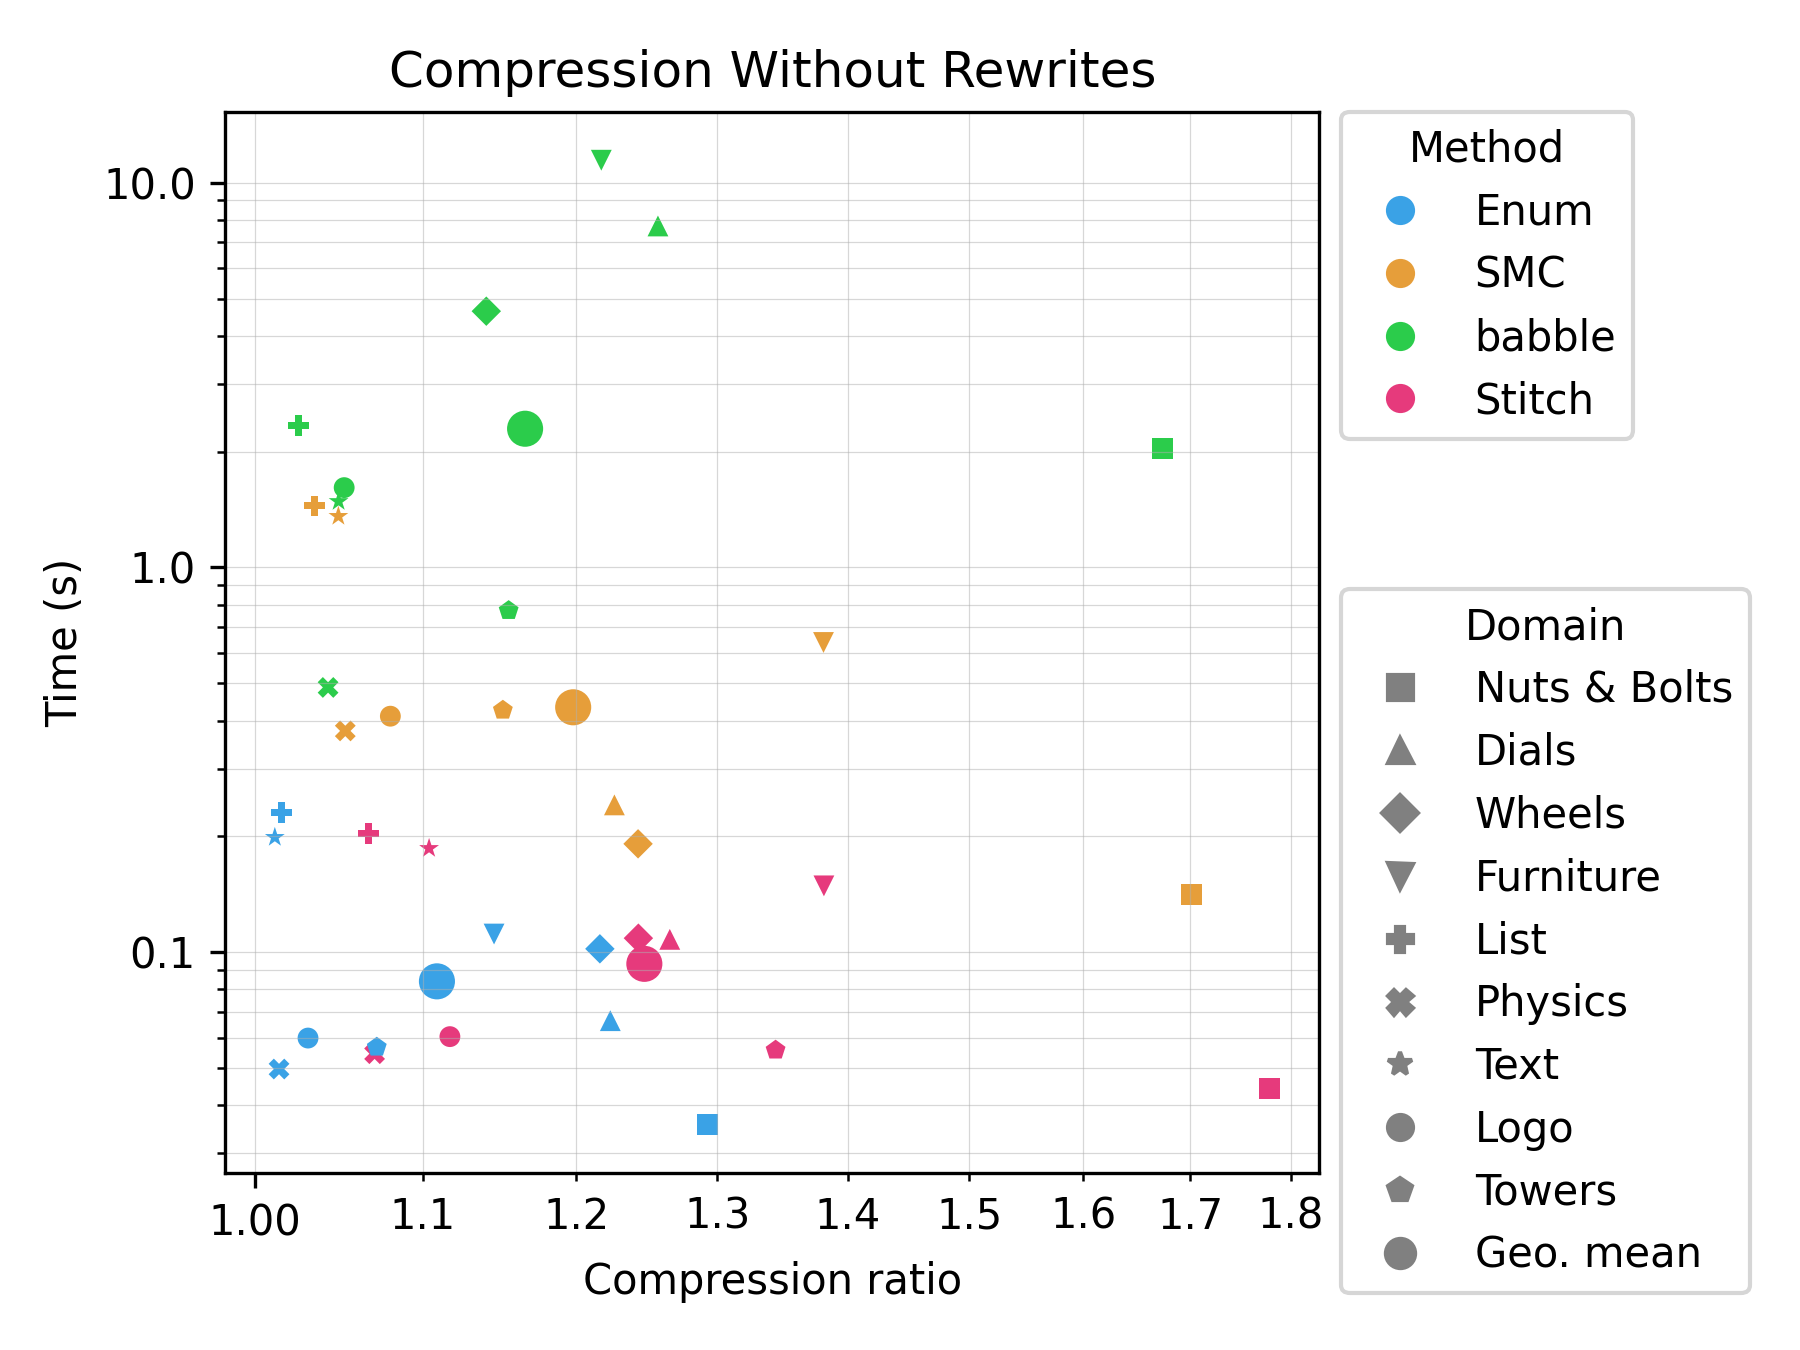
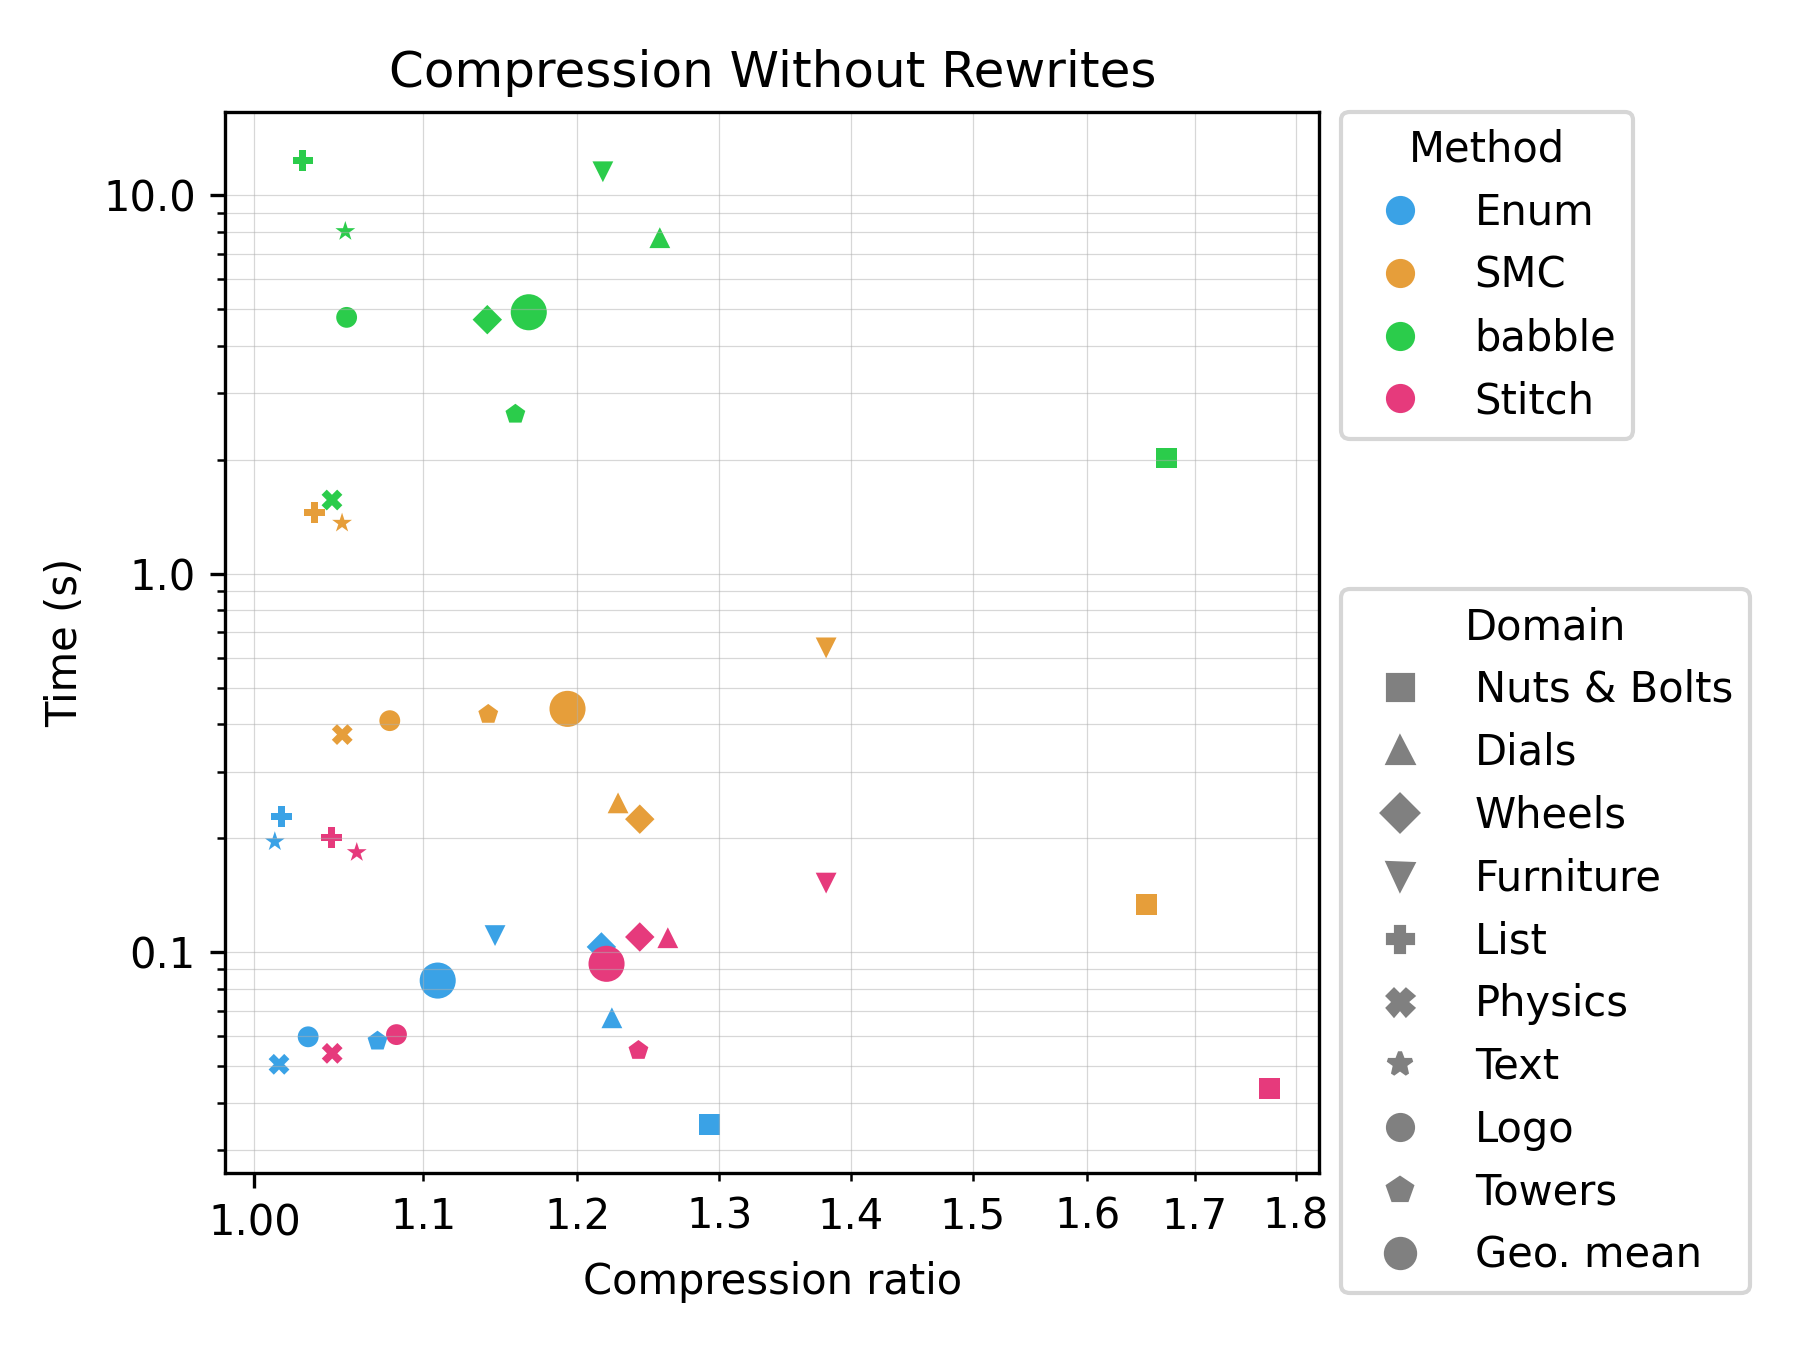
run

diff --git a/figures/table4.tex b/figures/table4.tex
@@ -1,4 +1,4 @@
-% source: /home/kavi/mit/egg-stitch/viz/results/table4/2026-05-09_17-39-10/table4.json
+% source: /home/kavi/mit/egg-stitch/viz/results/table4/2026-05-09_21-00-47/table4.json
 % Compression Without Rewrites, Stacked Abstractions: generated from results JSON
 \begin{tabular}{l r  rrrr rrrr}
 \toprule
@@ -6,16 +6,16 @@
 \cmidrule(lr){2-2} \cmidrule(lr){3-6} \cmidrule(lr){7-10}
 Domain & Original & Enum & SMC & babble & Stitch & Enum & SMC & babble & Stitch \\
 \midrule
-Nuts \& Bolts & 19009 & 1.61 & 14.90 & 9.11 & \textbf{16.99} & 0.707 & 1.997 & 10.431 & \textbf{0.098} \\
-Dials & 35713 & 5.17 & 6.42 & 5.25 & \textbf{8.87} & 0.705 & 5.820 & 41.670 & \textbf{0.446} \\
-Wheels & 35427 & 1.53 & \textbf{7.01} & 5.47 & 6.61 & 0.612 & 9.294 & 44.615 & \textbf{0.413} \\
-Furniture & 42936 & 3.38 & 6.46 & 4.26 & \textbf{7.00} & 2.004 & 11.129 & 71.215 & \textbf{0.581} \\
-List & 35680 & 1.05 & 1.30 & 1.07 & \textbf{1.37} & \textbf{0.759} & 17.596 & 21.347 & 1.246 \\
-Physics & 9405 & 1.08 & 1.66 & 1.39 & \textbf{2.08} & \textbf{0.135} & 3.930 & 2.856 & 0.277 \\
-Text & 30002 & 1.05 & 1.56 & 1.21 & \textbf{1.94} & \textbf{0.503} & 14.456 & 12.795 & 0.784 \\
-Logo & 11228 & 1.14 & 2.08 & 1.33 & \textbf{2.11} & \textbf{0.221} & 5.487 & 11.528 & 0.318 \\
-Towers & 9556 & 1.40 & 2.36 & 1.36 & \textbf{2.57} & 0.338 & 4.864 & 3.911 & \textbf{0.218} \\
+Nuts \& Bolts & 19008 & 1.59 & 13.44 & 9.20 & \textbf{14.86} & 0.708 & 1.879 & 10.507 & \textbf{0.098} \\
+Dials & 35712 & 4.88 & 5.99 & 5.27 & \textbf{7.94} & 0.717 & 5.990 & 42.021 & \textbf{0.453} \\
+Wheels & 35426 & 1.53 & \textbf{6.58} & 5.49 & 6.17 & 0.613 & 9.116 & 44.635 & \textbf{0.416} \\
+Furniture & 42935 & 3.29 & 6.24 & 4.26 & \textbf{6.64} & 2.022 & 11.128 & 71.065 & \textbf{0.593} \\
+List & 35621 & 1.02 & 1.12 & 1.09 & \textbf{1.14} & \textbf{0.764} & 17.945 & 154.778 & 1.247 \\
+Physics & 9387 & 1.04 & 1.26 & \textbf{1.43} & 1.37 & \textbf{0.132} & 3.873 & 13.189 & 0.278 \\
+Text & 29936 & 1.02 & 1.23 & 1.24 & \textbf{1.34} & \textbf{0.500} & 14.377 & 86.230 & 0.779 \\
+Logo & 11216 & 1.09 & \textbf{1.55} & 1.37 & 1.52 & \textbf{0.217} & 5.451 & 51.346 & 0.315 \\
+Towers & 9538 & 1.19 & \textbf{1.56} & 1.42 & 1.56 & 0.334 & 4.781 & 23.123 & \textbf{0.214} \\
 \midrule
-Geo. mean &  & 1.63 & 3.46 & 2.49 & \textbf{3.90} & 0.511 & 6.824 & 15.395 & \textbf{0.387} \\
+Geo. mean &  & 1.56 & 2.89 & 2.53 & \textbf{3.06} & 0.509 & 6.766 & 40.493 & \textbf{0.388} \\
 \bottomrule
 \end{tabular}

diff --git a/figures/table2.tex b/figures/table2.tex
@@ -1,4 +1,4 @@
-% source: /home/kavi/mit/egg-stitch/viz/results/table2/2026-05-09_16-49-13/table2.json
+% source: /home/kavi/mit/egg-stitch/viz/results/table2/2026-05-09_19-40-45/table2.json
 % Compression Without Rewrites: generated from results JSON
 \begin{tabular}{l r  rrrr rrrr}
 \toprule
@@ -6,16 +6,16 @@
 \cmidrule(lr){2-2} \cmidrule(lr){3-6} \cmidrule(lr){7-10}
 Domain & Original & Enum & SMC & babble & Stitch & Enum & SMC & babble & Stitch \\
 \midrule
-Nuts \& Bolts & 19009 & 1.29 & 1.70 & 1.67 & \textbf{1.78} & \textbf{0.036} & 0.141 & 2.038 & 0.044 \\
-Dials & 35713 & 1.22 & 1.23 & 1.26 & \textbf{1.27} & \textbf{0.066} & 0.241 & 7.718 & 0.108 \\
-Wheels & 35427 & 1.22 & 1.24 & 1.14 & \textbf{1.24} & \textbf{0.102} & 0.191 & 4.635 & 0.109 \\
-Furniture & 42936 & 1.15 & 1.38 & 1.22 & \textbf{1.38} & \textbf{0.111} & 0.638 & 11.438 & 0.149 \\
-List & 35680 & 1.02 & 1.03 & 1.03 & \textbf{1.07} & 0.231 & 1.445 & 2.334 & \textbf{0.203} \\
-Physics & 9405 & 1.01 & 1.05 & 1.04 & \textbf{1.07} & \textbf{0.050} & 0.376 & 0.488 & 0.054 \\
-Text & 30002 & 1.01 & 1.05 & 1.05 & \textbf{1.10} & 0.199 & 1.358 & 1.485 & \textbf{0.186} \\
-Logo & 11228 & 1.03 & 1.08 & 1.05 & \textbf{1.12} & \textbf{0.060} & 0.411 & 1.612 & 0.060 \\
-Towers & 9556 & 1.07 & 1.15 & 1.16 & \textbf{1.34} & 0.057 & 0.426 & 0.773 & \textbf{0.056} \\
+Nuts \& Bolts & 19008 & 1.29 & 1.65 & 1.67 & \textbf{1.77} & \textbf{0.035} & 0.133 & 2.021 & 0.044 \\
+Dials & 35712 & 1.22 & 1.23 & 1.26 & \textbf{1.26} & \textbf{0.067} & 0.248 & 7.722 & 0.109 \\
+Wheels & 35426 & 1.22 & \textbf{1.24} & 1.14 & \textbf{1.24} & \textbf{0.103} & 0.225 & 4.689 & 0.110 \\
+Furniture & 42935 & 1.15 & \textbf{1.38} & 1.22 & \textbf{1.38} & \textbf{0.111} & 0.637 & 11.530 & 0.152 \\
+List & 35621 & 1.02 & 1.03 & 1.03 & \textbf{1.04} & 0.229 & 1.452 & 12.370 & \textbf{0.201} \\
+Physics & 9387 & 1.01 & \textbf{1.05} & 1.04 & 1.04 & \textbf{0.051} & 0.376 & 1.565 & 0.054 \\
+Text & 29936 & 1.01 & 1.05 & 1.05 & \textbf{1.06} & 0.196 & 1.361 & 8.023 & \textbf{0.183} \\
+Logo & 11216 & 1.03 & 1.08 & 1.05 & \textbf{1.08} & \textbf{0.060} & 0.409 & 4.756 & 0.061 \\
+Towers & 9538 & 1.07 & 1.14 & 1.16 & \textbf{1.24} & 0.058 & 0.425 & 2.639 & \textbf{0.055} \\
 \midrule
-Geo. mean &  & 1.11 & 1.20 & 1.17 & \textbf{1.25} & \textbf{0.084} & 0.433 & 2.293 & 0.093 \\
+Geo. mean &  & 1.11 & 1.19 & 1.17 & \textbf{1.22} & \textbf{0.084} & 0.439 & 4.906 & 0.093 \\
 \bottomrule
 \end{tabular}

diff --git a/figures/table3.tex b/figures/table3.tex
@@ -1,4 +1,4 @@
-% source: /home/kavi/mit/egg-stitch/viz/results/table3/2026-05-09_16-56-07/table3.json
+% source: /home/kavi/mit/egg-stitch/viz/results/table3/2026-05-09_19-51-59/table3.json
 % Compression Using Rewrites, Stacked Abstractions: generated from results JSON
 \begin{tabular}{l r r rrrr rrrr}
 \toprule
@@ -6,13 +6,13 @@
 \cmidrule(lr){2-3} \cmidrule(lr){4-7} \cmidrule(lr){8-11}
 Domain & Original & E-graph min & Enum & SMC & babble & Stitch & Enum & SMC & babble & Stitch \\
 \midrule
-Nuts \& Bolts & 19009 & 19009 & 14.64 & \textbf{15.68} & 10.43 & N/A & \textbf{0.843} & 10.270 & 22.081 & N/A \\
-Dials & 35713 & 20583 & 5.84 & \textbf{9.78} & 7.09 & N/A & \textbf{0.514} & 4.838 & 43.972 & N/A \\
-Wheels & 35427 & 30257 & 1.92 & \textbf{8.68} & 6.44 & N/A & \textbf{1.134} & 7.244 & 42.840 & N/A \\
-Furniture & 42936 & 37028 & 3.41 & \textbf{6.91} & 4.56 & N/A & \textbf{1.631} & 10.909 & 60.876 & N/A \\
-List & 35680 & 35592 & 1.05 & \textbf{1.32} & 1.07 & N/A & \textbf{0.877} & 18.892 & 22.364 & N/A \\
-Physics & 9405 & 9405 & 1.06 & \textbf{1.68} & 1.37 & N/A & \textbf{0.170} & 4.220 & 3.496 & N/A \\
+Nuts \& Bolts & 19008 & 19009 & 11.99 & \textbf{14.07} & 10.54 & N/A & \textbf{0.831} & 9.395 & 22.251 & N/A \\
+Dials & 35712 & 20583 & 5.58 & \textbf{8.86} & 7.12 & N/A & \textbf{0.512} & 4.907 & 44.215 & N/A \\
+Wheels & 35426 & 30257 & 1.91 & \textbf{7.85} & 6.46 & N/A & \textbf{1.136} & 7.012 & 42.687 & N/A \\
+Furniture & 42935 & 37028 & 3.32 & \textbf{6.64} & 4.57 & N/A & \textbf{1.620} & 11.249 & 61.018 & N/A \\
+List & 35621 & 35592 & 1.03 & \textbf{1.13} & 1.09 & N/A & \textbf{0.875} & 18.634 & 162.176 & N/A \\
+Physics & 9387 & 9405 & 1.03 & 1.26 & \textbf{1.42} & N/A & \textbf{0.169} & 4.144 & 17.545 & N/A \\
 \midrule
-Geo. mean &  &  & 2.92 & \textbf{5.22} & 3.84 & N/A & \textbf{0.701} & 8.240 & 24.142 & N/A \\
+Geo. mean &  &  & 2.77 & \textbf{4.58} & 3.89 & N/A & \textbf{0.698} & 8.092 & 44.036 & N/A \\
 \bottomrule
 \end{tabular}

diff --git a/figures/table1.tex b/figures/table1.tex
@@ -1,4 +1,4 @@
-% source: /home/kavi/mit/egg-stitch/viz/results/table1/2026-05-09_16-37-14/table1.json
+% source: /home/kavi/mit/egg-stitch/viz/results/table1/2026-05-09_19-26-24/table1.json
 % Compression Using Rewrites: generated from results JSON
 \begin{tabular}{l r r rrrr rrrr}
 \toprule
@@ -6,13 +6,13 @@
 \cmidrule(lr){2-3} \cmidrule(lr){4-7} \cmidrule(lr){8-11}
 Domain & Original & E-graph min & Enum & SMC & babble & Stitch & Enum & SMC & babble & Stitch \\
 \midrule
-Nuts \& Bolts & 19009 & 19009 & 1.24 & 1.70 & \textbf{1.75} & N/A & \textbf{0.210} & 0.621 & 11.547 & N/A \\
-Dials & 35713 & 20583 & 2.07 & 2.08 & \textbf{2.17} & N/A & \textbf{0.041} & 0.371 & 28.808 & N/A \\
-Wheels & 35427 & 30257 & \textbf{1.45} & \textbf{1.45} & 1.36 & N/A & \textbf{0.103} & 0.222 & 8.819 & N/A \\
-Furniture & 42936 & 37028 & 1.31 & \textbf{1.70} & 1.39 & N/A & \textbf{0.097} & 0.539 & 14.619 & N/A \\
-List & 35680 & 35592 & 1.02 & \textbf{1.04} & 1.03 & N/A & \textbf{0.269} & 1.636 & 2.417 & N/A \\
-Physics & 9405 & 9405 & 1.01 & \textbf{1.06} & 1.04 & N/A & \textbf{0.059} & 0.412 & 0.611 & N/A \\
+Nuts \& Bolts & 19008 & 19009 & 1.24 & 1.70 & \textbf{1.75} & N/A & \textbf{0.211} & 0.622 & 11.454 & N/A \\
+Dials & 35712 & 20583 & 2.07 & 2.08 & \textbf{2.17} & N/A & \textbf{0.040} & 0.364 & 28.790 & N/A \\
+Wheels & 35426 & 30257 & \textbf{1.45} & \textbf{1.45} & 1.36 & N/A & \textbf{0.101} & 0.187 & 8.823 & N/A \\
+Furniture & 42935 & 37028 & 1.31 & \textbf{1.70} & 1.39 & N/A & \textbf{0.096} & 0.533 & 14.556 & N/A \\
+List & 35621 & 35592 & 1.02 & \textbf{1.04} & 1.03 & N/A & \textbf{0.265} & 1.629 & 13.104 & N/A \\
+Physics & 9387 & 9405 & 1.01 & \textbf{1.06} & 1.05 & N/A & \textbf{0.058} & 0.410 & 2.159 & N/A \\
 \midrule
-Geo. mean &  &  & 1.31 & \textbf{1.46} & 1.40 & N/A & \textbf{0.105} & 0.515 & 6.314 & N/A \\
+Geo. mean &  &  & 1.31 & \textbf{1.46} & 1.41 & N/A & \textbf{0.104} & 0.497 & 10.306 & N/A \\
 \bottomrule
 \end{tabular}
